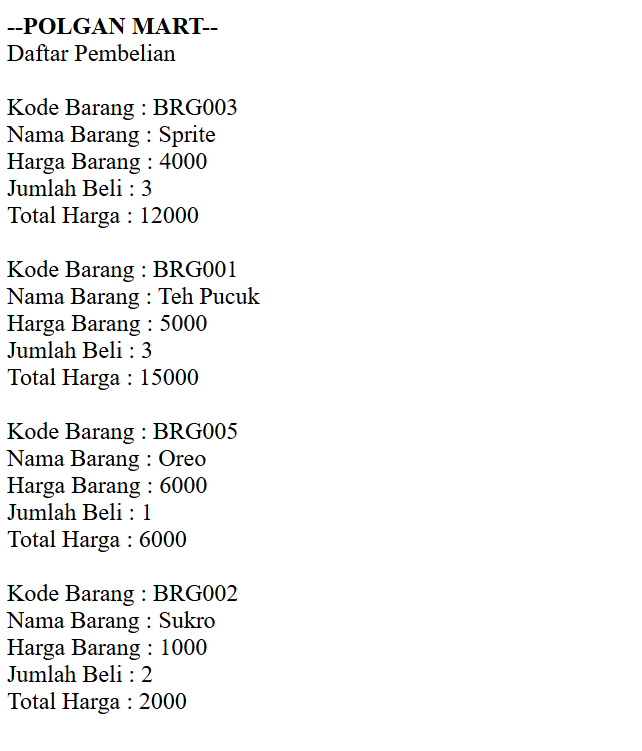
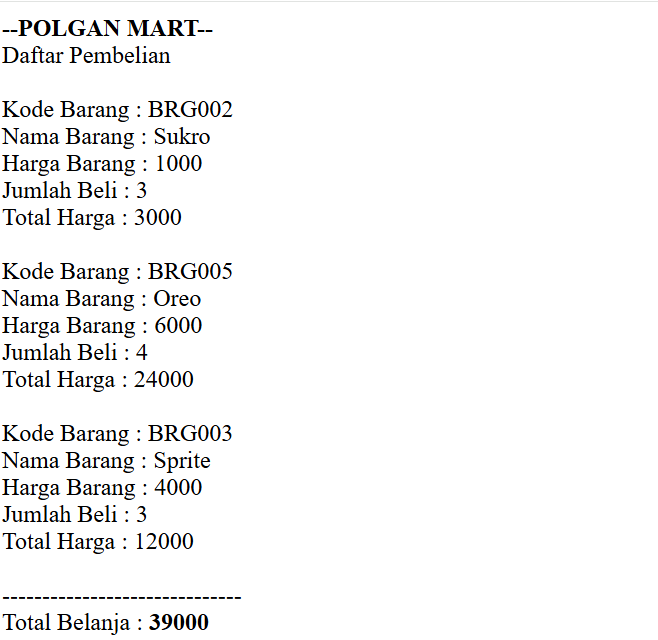
Commit 4 - Output Akhir

Changed region(s): [[0.0, 0.0, 0.405, 1.0]]

diff --git a/array.php b/array.php
@@ -40,6 +40,6 @@ foreach ($beli as $item) {
 // Commit 4 – Output akhir
 echo "------------------------------<br>";
 echo "Total Belanja : <b>$grandtotal</b><br>";
-
+?>
 
 ?>
